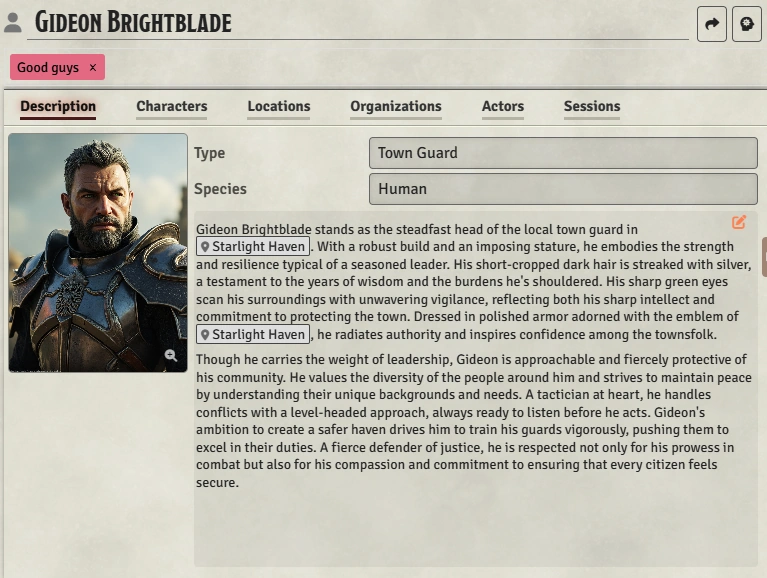
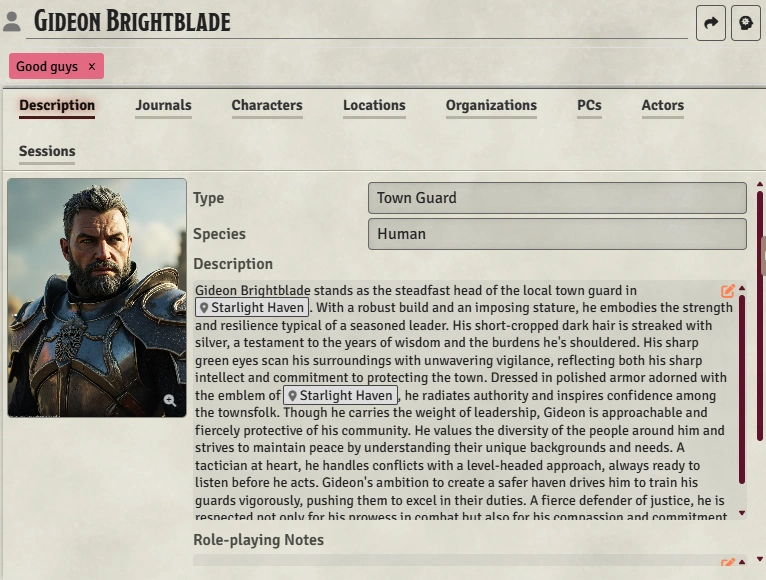
docs complete

diff --git a/src/components/applications/CreateEntryDialog.vue b/src/components/applications/CreateEntryDialog.vue
@@ -15,14 +15,14 @@
           default: false,
           close: false,
           disable: loading,
-          hidden: !Backend.available,
+          hidden: !generateMode,
           callback: onGenerateClick
         },
         {
           label: localize('labels.use'),
           default: false,
           close: true,
-          disable: !name || (props.generateMode && !generatedDescription && !generatedRoleplayNotes),
+          disable: !name || (generateMode && !generatedDescription && !generatedRoleplayNotes),
           callback: onUseClick
         },
       ]"
@@ -34,7 +34,7 @@
         <h6>
           {{ localize('labels.fields.name')}}
           <i 
-            v-if="Backend.available"
+            v-if="generateMode"
             class="fas fa-info-circle tooltip-icon" 
             :data-tooltip="localize('tooltips.createEntry.name')"
           ></i>
@@ -61,7 +61,7 @@
           <h6>
             {{ localize('labels.fields.species')}}
             <i 
-              v-if="Backend.available"
+              v-if="generateMode"
               class="fas fa-info-circle tooltip-icon" 
               :data-tooltip="localize('tooltips.createEntry.species')"
             ></i>
@@ -77,7 +77,7 @@
           <h6>
             {{ localize('labels.fields.parent')}}
             <i 
-              v-if="Backend.available"
+              v-if="generateMode"
               class="fas fa-info-circle tooltip-icon" 
               :data-tooltip="localize('tooltips.createEntry.parent')"
             ></i>
@@ -90,9 +90,9 @@
         </div>
 
         <h6>
-          {{ Backend.available ? localize('labels.fields.startingDescription') : localize('labels.fields.description') }}
+          {{ generateMode ? localize('labels.fields.startingDescription') : localize('labels.fields.description') }}
           <i
-            v-if="Backend.available" 
+            v-if="generateMode" 
             class="fas fa-info-circle tooltip-icon" 
             :data-tooltip="localize('tooltips.createEntry.description')"
           ></i>
@@ -110,7 +110,7 @@
           }}"
         />
         <div 
-          v-if="Backend.available"
+          v-if="generateMode"
           class="generation-option"
         >
           <div 
@@ -146,11 +146,11 @@
         </div>
         
         <hr 
-          v-if="Backend.available"
+          v-if="generateMode"
           style="background-image: none; border: 1px solid #aaa; margin: 1rem 0 0.5rem 0"          
         >
         <div 
-          v-if="Backend.available"
+          v-if="generateMode"
           class="results-container"
         >
           <div v-if="generateError" class="error-message">
@@ -178,14 +178,13 @@
           </div>
           <div v-else class="prompt-message">
             {{ localize('dialogs.createEntry.generatePrompt')}}...<br/><br/>
-            {{ props.generateMode ? '' : localize('dialogs.createEntry.generatePrompt2')}}
+            {{ generateMode ? '' : localize('dialogs.createEntry.generatePrompt2')}}
           </div>
-        </div>
 
-        <hr 
-          v-if="Backend.available"
-          style="background-image: none; border: 1px solid #aaa; margin: 1rem 0 0 0"          
-        >
+          <hr 
+            style="background-image: none; border: 1px solid #aaa; margin: 1rem 0 0 0"          
+          >
+        </div>
 
         <!-- checkboxes at bottom -->
         <div class="generation-option">
@@ -201,7 +200,8 @@
             </label>
           </div>
           <div v-else class="generation-option-wrapper">&nbsp;</div>
-          <div v-if="Backend.available" class="generation-option-wrapper right-align">
+          
+          <div v-if="generateMode" class="generation-option-wrapper right-align">
             <Checkbox 
               v-model="generateImageAfterAccept" 
               :binary="true"
@@ -252,6 +252,10 @@
   ////////////////////////////////
   // props
   const props = defineProps({
+    topic: {
+      type: Number as PropType<ValidTopic>,
+      required: true,
+    },
     title: {
       type: String,
       required: true,
@@ -261,10 +265,6 @@
       type: Boolean,
       required: false,
       default: false,
-    },
-    topic: {
-      type: Number as PropType<ValidTopic>,
-      required: true,
     },
     initialName: {
       type: String,
@@ -355,6 +355,10 @@
       if (!style) return '';
       return style.prompt.replace('{genre}', currentSetting.value?.genre || '');
     }).filter(style => style !== '');
+  });
+
+  const generateMode = computed((): boolean => {
+    return props.generateMode && Backend.available;
   });
 
   const useRoleplayNotes = computed((): boolean => {

diff --git a/src/applications/stores/settingDirectoryStore.ts b/src/applications/stores/settingDirectoryStore.ts
@@ -483,7 +483,7 @@ export const useSettingDirectoryStore = defineStore('settingDirectory', () => {
         iconFontClass: 'fas',
         label: localize(`contextMenus.topicFolder.create.${topic}`) + ' as child',
         onClick: async () => {
-          const entry = await FCBDialog.createEntryDialog(topic, { parentId: entryId} );
+          const entry = await FCBDialog.createEntryDialog(topic, { parentId: entryId, generateMode: true } );
 
           if (entry) {
             await navigationStore.openEntry(entry.uuid, { newTab: true, activate: true, });
@@ -516,7 +516,7 @@ export const useSettingDirectoryStore = defineStore('settingDirectory', () => {
         if (!currentSetting.value)
         return;
 
-        const entry = await FCBDialog.createEntryDialog(topic, { type: type } );
+        const entry = await FCBDialog.createEntryDialog(topic, { type: type, generateMode: true } );
 
         if (entry) {
           await navigationStore.openEntry(entry.uuid, { newTab: true, activate: true, }); 
@@ -546,7 +546,7 @@ export const useSettingDirectoryStore = defineStore('settingDirectory', () => {
             await navigationStore.openEntry(entry.uuid, { newTab: true, activate: true, });
           }
         } else {
-          const entry = await FCBDialog.createEntryDialog(topicFolder.topic, { } );
+          const entry = await FCBDialog.createEntryDialog(topicFolder.topic, { generateMode: true } );
 
           if (entry) {
             await navigationStore.openEntry(entry.uuid, { newTab: true, activate: true, }); 

diff --git a/src/dialogs/createEntry.ts b/src/dialogs/createEntry.ts
@@ -70,14 +70,17 @@ class CreateEntryApplication extends VueApplicationMixin(ApplicationV2) {
   };
 }
 
+/** options.generateMode defaults to false */
 async function createEntryDialog(topic: ValidTopic, 
-  options?: { name?: string; type?: string; parentId?: string }): Promise<Entry | null> {
+  options?: { name?: string; type?: string; parentId?: string; generateMode?: boolean }): Promise<Entry | null> {
   const currentSetting = useMainStore().currentSetting;
 
   if (!currentSetting) 
     return null;
 
-  const { name, type, parentId } = options ?? {};
+  const { name, type, parentId, generateMode } = options ?? { 
+    generateMode: false 
+  };
 
   // get the valid parents
   let validParents = [] as { id: string; label: string }[];
@@ -99,6 +102,7 @@ async function createEntryDialog(topic: ValidTopic,
       validParents: validParents,
       initialParentId: parentId || '',
       initialType: type || '',
+      generateMode: generateMode,
       callback: async (details: AnyDetails | null) => {
         dialog.close(); 
 

diff --git a/src/components/ImagePicker.vue b/src/components/ImagePicker.vue
@@ -173,6 +173,12 @@
           onClick: () => copyImageToClipboard()
         },
         {
+          icon: 'fa-copy',
+          iconFontClass: 'fas',
+          label: localize('contextMenus.image.copyLinkToClipboard'),
+          onClick: () => copyImageLinkToClipboard()
+        },
+        {
           icon: 'fa-edit',
           iconFontClass: 'fas',
           label: localize('contextMenus.image.changeImage'),
@@ -280,6 +286,12 @@
   const createScene = () => {
     if (props.modelValue) 
       emit('create-scene', props.modelValue);
+  };
+
+  const copyImageLinkToClipboard = () => {
+    if (!props.modelValue) return;
+    
+    navigator.clipboard.writeText(props.modelValue);
   };
 
   const copyImageToClipboard = async () => {

diff --git a/src/components/ContentTab/HomePage.vue b/src/components/ContentTab/HomePage.vue
@@ -144,7 +144,7 @@
     if (!topicFolder)
       throw new Error('No topic folder in HomePage.onCreateEntry()');
 
-    const entry = await FCBDialog.createEntryDialog(topicFolder.topic, { } );
+    const entry = await FCBDialog.createEntryDialog(topicFolder.topic, { generateMode: true } );
 
     if (entry) {
       await navigationStore.openEntry(entry.uuid, { newTab: true, activate: true, }); 

diff --git a/src/components/tables/RelatedItemDialog.vue b/src/components/tables/RelatedItemDialog.vue
@@ -303,7 +303,7 @@
   
   const onCreateClick = async function() {
     // the simplest way to do this is do the create box first and then just pretend like we added it
-    const newEntry = await FCBDialog.createEntryDialog(props.topic);
+    const newEntry = await FCBDialog.createEntryDialog(props.topic, { generateMode: true } );
 
     if (newEntry) {
       entryToAdd.value = newEntry.uuid;

diff --git a/src/components/WBHeader/PlayModeNavigation/GeneratorBar.vue b/src/components/WBHeader/PlayModeNavigation/GeneratorBar.vue
@@ -126,6 +126,7 @@
     const entry = await FCBDialog.createEntryDialog(topic, { 
       name: initialName.value || '',
       type: initialType.value || '',
+      generateMode: true,
     });
 
     if (entry) {

diff --git a/docs/reference/world-building/create-entry.md b/docs/reference/world-building/create-entry.md
@@ -12,11 +12,19 @@ next:
 
 The Create Entry dialog is where you can create a new [^Entry].  
 
+> [!Note]
+> When creating a PC, you'll simply be prompted for the player name.  You can then [link the actor](/reference/world-building/content/pc/#connection-to-actors) to the PC to set name and image.
+
 ## Fields
 There are several fields you can (optionally) fill in:
 - **Name** - The name of the Entry.  This is required to complete the Entry, but if you are using 'Generate' [[Advanced Feature]], you can leave it blank, and it will be generated for you along with the description.
 - **Type** - The [^Type] of Entry. This text box works the same as the Type field on [Entries](/reference/world-building/content/entry/) with respect to autocomplete and adding new Types.
 - **Parent** ([^Location], [^Organization] only) - The parent of the Entry.  This is optional.  Typing in the box will search for matching Locations/Organizations.
+- **Species** ([^Character] only) - The species of the Entry.  This is optional.  Typing in the box will search for matching Species.
+
+> [!Info]
+> You can enter a custom species in the box, or even a description (ex. "A blakhduq, which looks like an overgrown duck with demon horns").  This will then be used for description generation, but the species will not be added to the master list or set on the Entry.  
+
 - **Description** - The description of the Entry.  This is optional, but highly recommended if you plan to generate an image or description ([Advanced Feature]).  The description can be a very brief description or just a list of characteristics.  Any information contained in the description will be included in the generated version (if it fits). 
 
   When you first open the dialog, the background of the description is yellow.  This indicates that if you hit "Use" to create the Entry, this field's value will become the description of the new Entry.  Once you hit "Generate", the yellow background will move to the generated description, indicating that is what will now be used instead.
@@ -26,16 +34,16 @@ These will all populate from any existing information on the Entry.  Name, speci
 ## Options {#options}
 There are 2-3 options below the description field:
 
-### Generate long descriptions
-If checked, when you hit "Use", the AI will generate a long description (multiple paragraphs) for the entry:
+### What to generate 
+You can generate a long description, role-playing notes, or both.  
 
+If you are using role-playing notes (see [Module Settings]), you will have the choice to populate the description, the notes, or both. If you have that field turned off, you will instead have the option to do long vs. short description.  Note that a short description is the same text as the role-playing notes would have been - it's just used in place of the other description.  The number of paragraphs generated for long descriptions, can be set in the [Module Settings].
+
+Sample long description:
 ![Example long description](/assets/images/generate-long-description.webp)
 
-When off, it will simply create a quick description useful for role-playing the character, including a brief description of their personality and appearance, and some suggested role-playing approaches:
-
+Sample role-playing notes/short description:
 ![Example short description](/assets/images/generate-short-description.webp)
-
-The default value of this checkbox, and the number of paragraphs generated for long descriptions, can be set in the [Module Settings].
 
 ### Generate image [[Advanced Feature]]
 When checked, after you finalize and hit "Use", the AI will [generate an image](/reference/world-building/image-generation) for the entry.
@@ -44,4 +52,4 @@ When checked, after you finalize and hit "Use", the AI will [generate an image](
 This option is only available if you are in [^Play Mode], and only for Characters or Locations.  When checked, this Entry will be added to the [^Current Session] after you hit "Use".  Characters are added as [NPCs](/reference/campaign-mgt/content/session/npcs), while Locations are added as [Locations](/reference/campaign-mgt/content/session/locations).  The default value of this checkbox is controlled by the "Default 'Add to current session'" [Module Setting].
 
 ## Generated description [[Advanced Feature]]
-Pressing "Generate" will generate a description for the Entry.  And of the fields you left blank will be populated, but the ones you filled will be used as is.  Once generation is complete, you can hit "Use" to create the Entry, or hit "Generate" again to try a new description.  If you do retry, make sure to clear any fields that you don't want to keep for the next run.
+Pressing "Generate" will generate a description (and/or role-play notes) for the Entry.  Any of the fields you left blank will be populated, but the ones you filled will be used as is.  Once generation is complete, you can hit "Use" to create the Entry, or hit "Generate" again to try a new description.  If you do retry, make sure to clear any fields that you don't want to keep for the next run.

diff --git a/docs/reference/world-building/content/entry/description.md b/docs/reference/world-building/content/entry/description.md
@@ -11,15 +11,16 @@ next:
 ![Entry Window](/assets/images/entry-content.webp)
 
 The description tab has four main components:
-1. Image
-2. Type
-3. Topic-specific fields
-4. Description text area
+1. [Image](#image)
+2. [Type](#type)
+3. [Topic-specific fields](#topic-specific-fields)
+4. [Description](#description)
+5. [Role-playing notes](#role-playing-notes)
 
-## Image
+## Image {#image}
 See [Image] documentation.
 
-## Type
+## Type {#type}
 Type is where you categorize the type of the Entry.  For example, a Character might be a King, a Blacksmith, a Paladin, or a Hero, Villain, NPC, etc. A Location might be a City, Town, Dungeon, etc. An Organization might be a Faction, Guild, Cult, etc. It's completely up to you how to manage and organize your Entries within Types.  Type impacts these areas:
   - The Type field is searchable 
   - The [Setting Directory] can be set to group the tree by type - showing you all the entries of a certain type at once.
@@ -27,18 +28,17 @@ Type is where you categorize the type of the Entry.  For example, a Character mi
 
 For more complex type management, you can use [Tags].
 
-## Topic-Specific Fields
+## Topic-Specific Fields {#topic-specific-fields}
 Each Topic has one or more extra fields - see the topic-specific documentation for details:
   - [Characters]
   - [Locations]
   - [Organizations]
 
-## Description Text Area
-This is where you enter the description of the Entry.  Click the orange pencil to start editing, and the save button (or Control-S) to save.
+## Description {#description}
+This is where you enter the description of the Entry.  See [Editors] for more information on the functionality of editors throughout the application. 
 
-You can drag any Entry from the [Setting Directory] into the description editor, and it will insert a UUID indicator that when you save will be displayed as a clickable link that will open that Entry (hold 'Control' while clicking to open it in a new tab).
-
-It is highly suggested that you check out the [Autocomplete Mentions](/reference/navigation/main-display#autocomplete-mentions) module, which allows you to rapidly reference Foundry documents and Campaign Builder Entries/Sessions/etc. while typing in the editor.  
+## Role-playing notes {#role-playing-notes}
+This is an optional field that can be disabled in the [Module Settings] and is used for quick notes to facilitate role-playing. While building out your world, they will show below the description, but when you are in [^Play mode], they will be shown above the description. 
 
 ## Managing Relationships {#managing-relationships}
 Assuming you have the "Auto-suggest relationships" [Module Setting] turned on, whenever you save the description, it will check to see if you've added or removed any references to other [^Entries].  If you have, you will be prompted with the "Manage Related Entries" dialog:

diff --git a/docs/reference/navigation/editors.md b/docs/reference/navigation/editors.md
@@ -25,12 +25,15 @@ You can drag any [^Entry], [^Campaign], or [^Session], from the [Setting Directo
 
 ## Automatic references
 
-When you save an editor, if you have exactly (but case insensitive) used the name of any [^Entry], [^PC], or [^Session], it will automatically turn it into a reference link.  
+When you save an editor, if you have exactly (but case insensitive) used the name of any [^Entry] or [^Session] (other than the current one), it will automatically turn it into a reference link.  
 
 > [!Note]
-> If you have more than one Entry, PC, and/or Session with the same name, it will not create a link, so that it's not linking to the wrong one.  Instead, use Drag & Drop or Autocomplete Mentions to insert a reference to the one you want.  This is likely to be a very rare situation, though.
+> If you have more than one Entry or Session with the same name, it will not create a link, so that it's not linking to the wrong one.  Instead, use Drag & Drop or Autocomplete Mentions to insert a reference to the one you want.  This is likely to be a very rare situation, though.
 
 
 ## Auto-suggest relationships
 
 If you insert a reference to an [^Entry] into the description of another, you will [automatically be asked](/reference/world-building/content/entry/description#managing-relationships) if you'd like to create a relationship.  This allows you to connect two entries or to mention an entry in a session note (which will then also add it to the campaign [To-do list](/reference/campaign-mgt/content/campaign/todos)) with just a couple keystrokes.
+
+> [!Note]
+> It will not suggest connections to the parent of the current Entry. This is deliberate to avoid cluttering the relationship list and unnecessarily prompting about automatically creating the relationship.  The Entry's parent is easily available from the directory tree, so it didn't seem to add much value to link it in the editor.  [Submit a feature request] if you disagree.

diff --git a/docs/reference/backend/setup.md b/docs/reference/backend/setup.md
@@ -16,7 +16,7 @@ Setting it up is pretty straightforward but requires some basic comfort with com
 > You can connect the Campaign Builder module in multiple Foundry worlds (even on multiple Foundry servers) to the same backend if you want.  The only thing to note is that all generated images will be stored in the same output directory, so anyone with access from any of those different worlds will be able to see them all (unless you actively manage the directory and move things out).
 
 ## Requirements 
-The backend script supports Ubuntu/Debian (including WSL), MacOS (requires Homebrew), and Windows (requires Powershell).  Note: It has not been well-tested in Powershell.  I recommend using WSL for Windows if possible, but if you do use Powershell, file an issue if you run into trouble.  
+The backend script supports Ubuntu/Debian (including WSL), MacOS (requires Homebrew), and Windows (requires Powershell).  Note: It has not been well-tested in Powershell.  I recommend using WSL for Windows if possible, but if you do use Powershell, [file an issue] if you run into trouble.  
 
 Everything runs in the cloud, so there aren't any particular hardware requirements.  You will need to create accounts at Google Cloud, OpenAI, and Replicate.com.
 
@@ -26,7 +26,7 @@ Everything runs in the cloud, so there aren't any particular hardware requiremen
 
 You'll need to do this step before you can deploy the backend.
 
-There are lot of steps here, but if you follow the directions below, it should be pretty straightforward.  If you run into trouble, please file an issue.
+There are lot of steps here, but if you follow the directions below, it should be pretty straightforward.  If you run into trouble, please [file an issue].
 
 1. Setup Google Cloud
 

diff --git a/docs/reference/world-building/content/pc/index.md b/docs/reference/world-building/content/pc/index.md
@@ -16,7 +16,7 @@ PCs are the connection between your settings and campaigns. The PC details inter
 > Admittedly, PCs arguably belong in campaigns instead of settings.  But I believe most people will be running relatively few campaigns in the same Setting, and it's much easier to manage the relationships between PCs and the rest of the world when they're all in the same place.
 
 ## Overall structure
-The overall structure of the PC Details interface is the common [Entry interface](../entry/).  But there are some key differences with PCs:
+The overall structure of the PC Details interface is similar to the common [Entry interface](../entry/), but there are some key differences:
 
 ### Connection to Actors
 PCs are directly tied to the Actors for those characters in Foundry.  To make the connection, drag an actor from Foundry and drop it on the PC image.  This will set the PC's name and image.  Simply change them on the Actor side to automatically update the PC.
@@ -25,7 +25,7 @@ PCs are directly tied to the Actors for those characters in Foundry.  To make th
 > Deleting an actor in Foundry that is attached to PC will automatically and safely remove it from the PC without deleting the PC.  The PC will need to have a new actor attached to it.
 
 ### Description
-The description tab has the following fields:
+The description tab has the following fields instead of the normal ones:
 * Player Name
 * Background Points - good for keeping track of key background on the character you want to review before each session (as opposed to more detailed bios that may exist on the character sheet)
 * Other Plot Points - this is where you can track background items that will make for good plot hooks (ex. an enemy)
